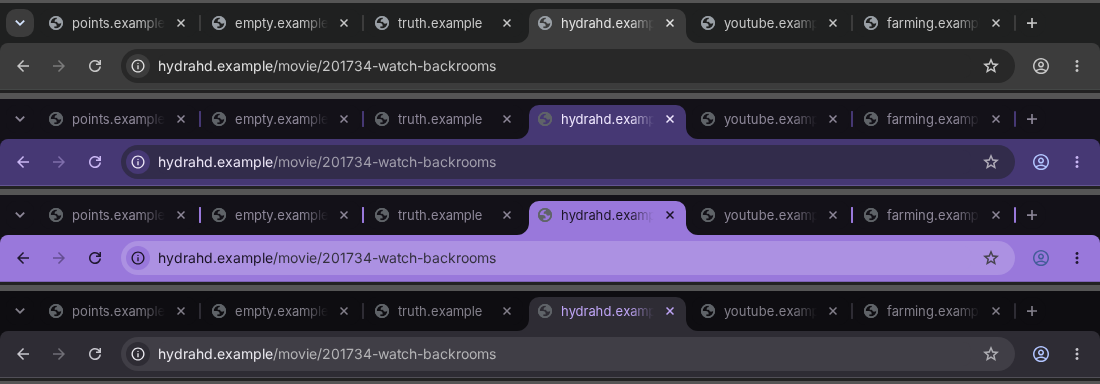
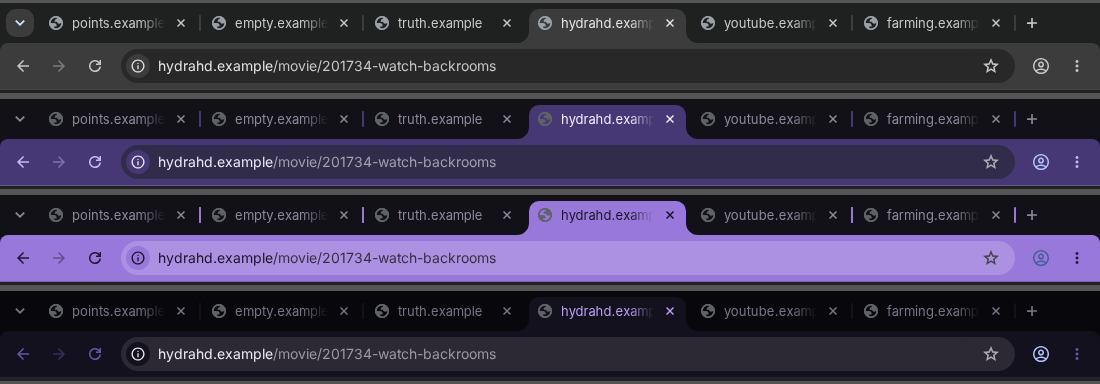
Replace grey plain-toolbar theme with one that keeps Brave's original toolbar
Copies Brave's dark purple-black toolbar, purple icons and address bar
colours; only the active tab's title is lavender and the tab strip is
slightly darker so the active tab stands out.

Claude-Session: https://claude.ai/code/session_01WhP7rVf8FZvw77fAQyh3Q9

Changed region(s): [[0.0, 0.75, 1.0, 1.0], [0.2473, 0.9062, 0.4636, 0.9375]]

diff --git a/README.md b/README.md
@@ -73,17 +73,21 @@ Brave's dark tab bar makes the tab you're on almost the same colour as the other
 |---|---|
 | `tab-theme` | **Default.** The tab you're on and the toolbar under it turn soft dark lavender. The other tabs stay near-black. |
 | `tab-theme-bright` | The tab you're on and the toolbar turn **bright** lavender with dark text. Hard to miss. |
-| `tab-theme-no-toolbar` | The toolbar stays **plain dark grey**. The tab you're on is lighter grey with a **lavender title**. The other tabs stay near-black. |
+| `tab-theme-original-toolbar` | **Keeps Brave's own dark purple-black toolbar and purple icons.** The tab you're on gets a **lavender title**, and the tab strip behind the other tabs is a little darker so it stands out. |
 
 ![Before, default, bright, plain toolbar](test-shots/tab-themes-compare.png)
 
-*From the top: no theme, `tab-theme`, `tab-theme-bright`, `tab-theme-no-toolbar`.*
+*From the top: no theme, `tab-theme`, `tab-theme-bright`, `tab-theme-original-toolbar`.*
 
-**Add it:** `brave://extensions` → **Load unpacked** → open this extension's folder → pick the **`tab-theme`** folder inside it (or `tab-theme-bright` / `tab-theme-no-toolbar`) → **Select**. It changes straight away.
+![Brave as it was, then tab-theme-original-toolbar](test-shots/tab-theme-original-toolbar-vs-brave.png)
+
+*Top: Brave with no theme. Bottom: `tab-theme-original-toolbar`.*
+
+**Add it:** `brave://extensions` → **Load unpacked** → open this extension's folder → pick the **`tab-theme`** folder inside it (or `tab-theme-bright` / `tab-theme-original-toolbar`) → **Select**. It changes straight away.
 
 - **Switch:** load the other folder the same way. Brave uses one theme at a time, so the new one replaces the old one.
 - **Remove:** themes don't show in the extensions list. Go to `brave://settings/appearance` and click **Reset to default** next to *Theme*.
-- The tab you're on always has the same colour as the toolbar under it. Brave doesn't let a theme colour them separately. If you don't want a lavender toolbar, use `tab-theme-no-toolbar`: the lavender is then only on the tab's title.
+- The tab you're on always has the same colour as the toolbar under it. Brave doesn't let a theme colour them separately. If you want Brave's own toolbar kept, use `tab-theme-original-toolbar`: the lavender is then only on the tab's title.
 
 ---
 
